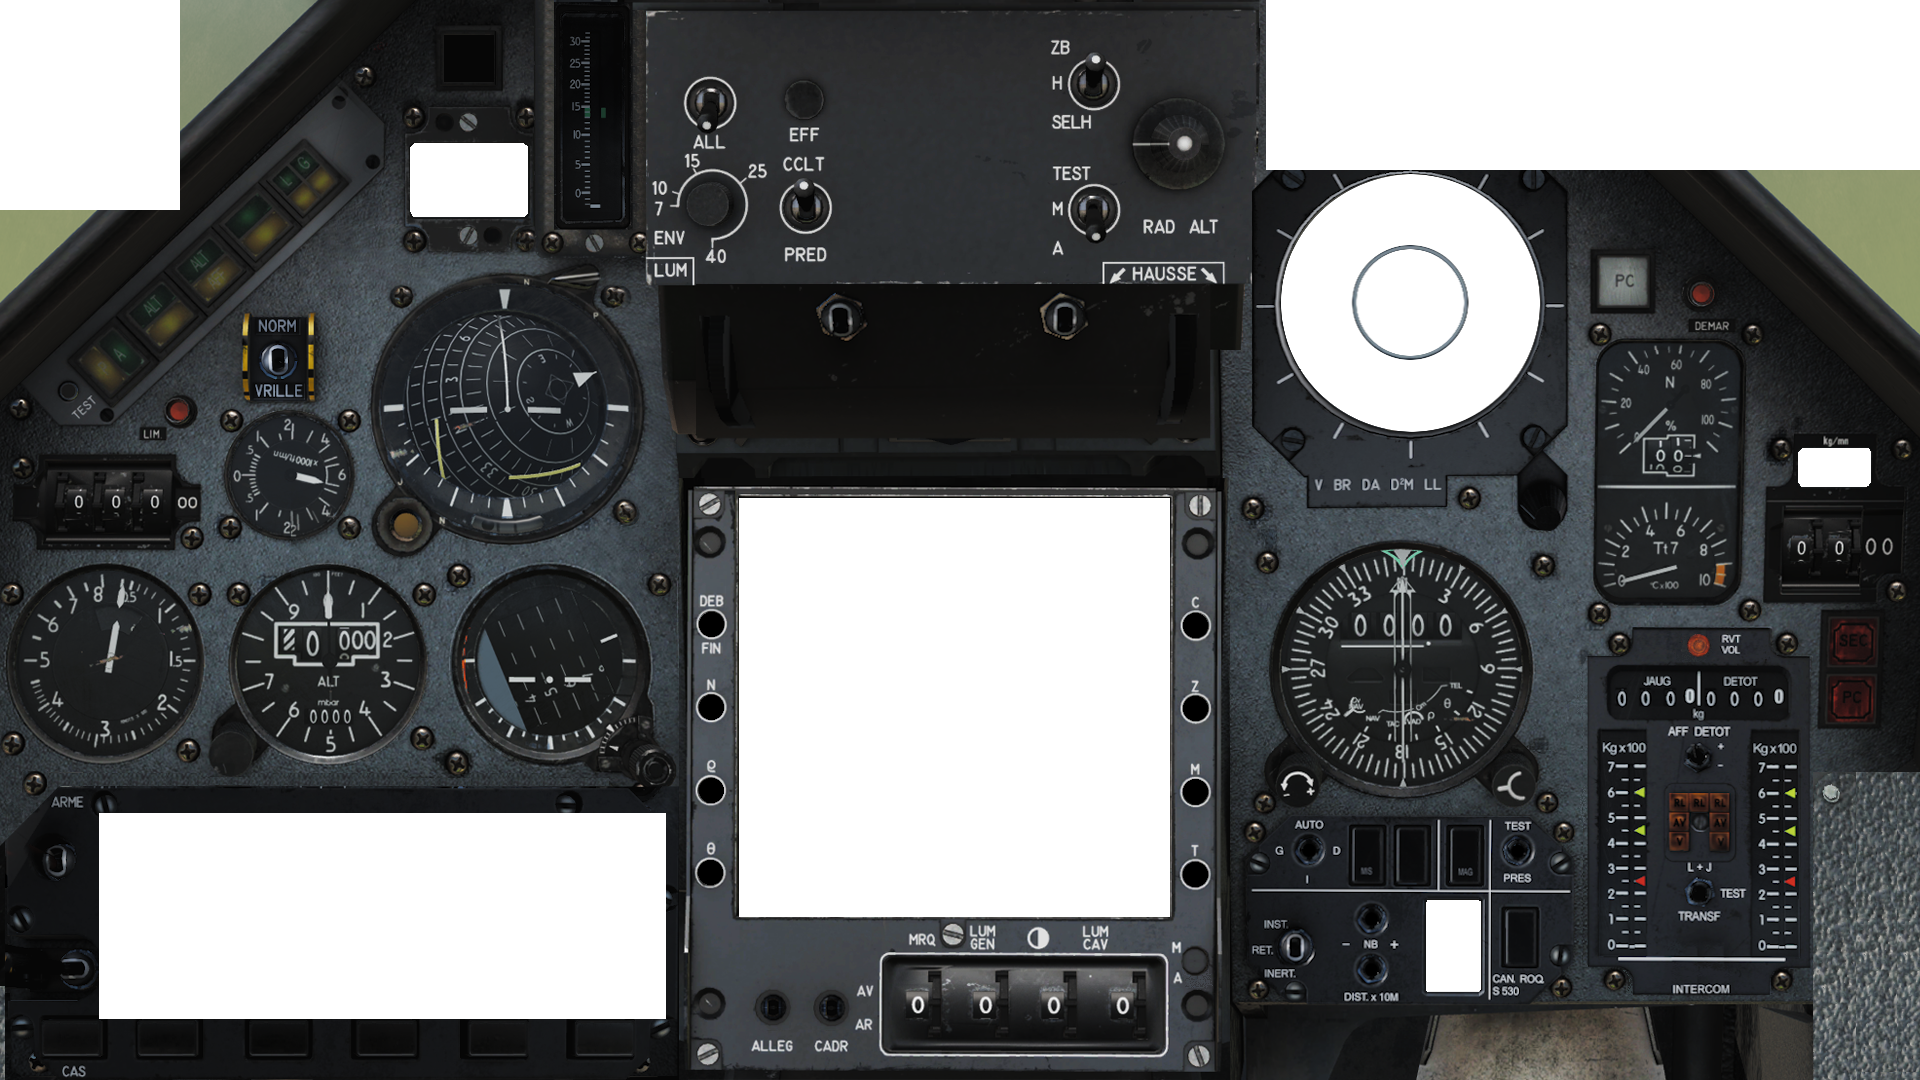
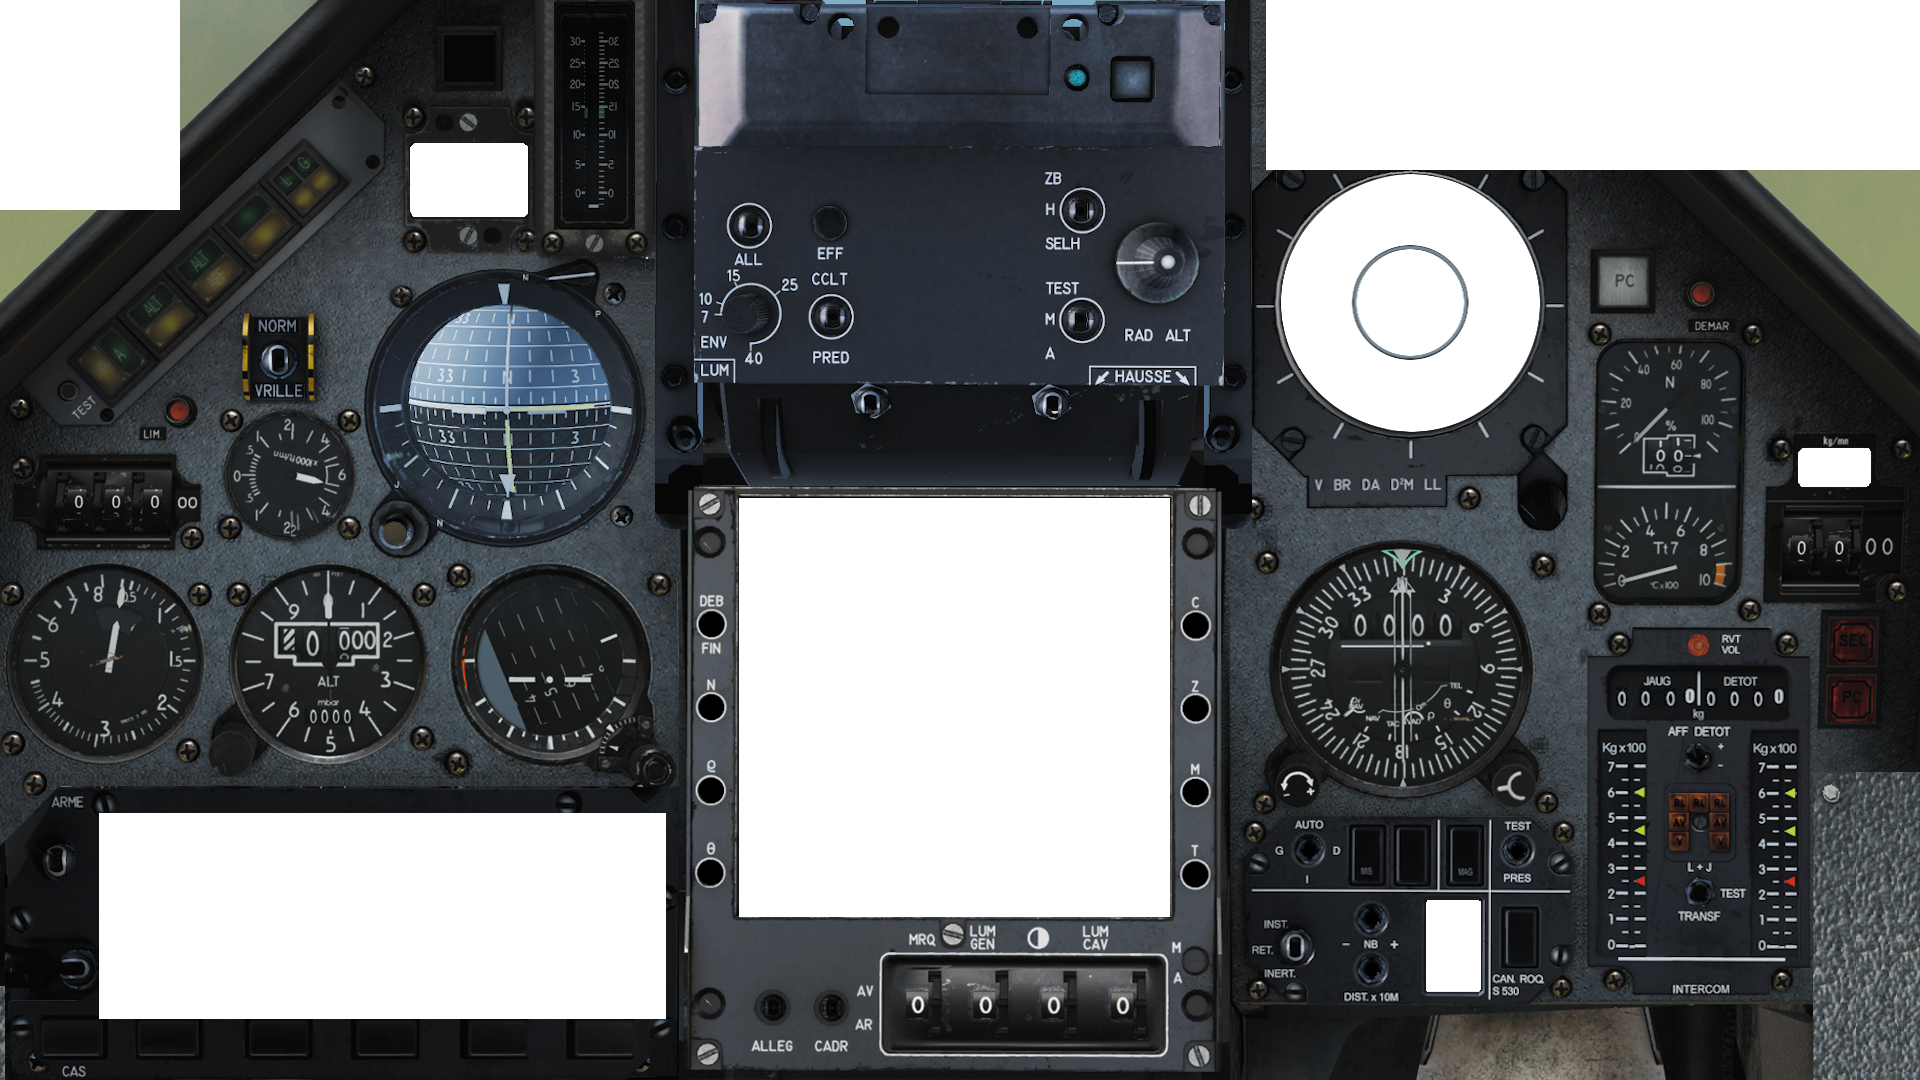
Added the VTH Control Panel

Changed region(s): [[0.1875, 0.0, 0.6562, 0.5194]]

diff --git a/Helios/Interfaces/DCS/M2000C/M2000CInterface.cs b/Helios/Interfaces/DCS/M2000C/M2000CInterface.cs
@@ -763,7 +763,38 @@ namespace GadrocsWorkshop.Helios.Interfaces.DCS.M2000C
             AddFunction(new Switch(this, VTH_VTB, "223", new SwitchPosition[] {
                 new SwitchPosition("1.0", "", "3223"),
                 new SwitchPosition("0.0", "", "3223"),
-                }, "VTB Panel", "Map Reframe", "%0.1f"));    
+                }, "VTB Panel", "Map Reframe", "%0.1f"));
+            #endregion
+            #region VTH Control Panel
+            AddFunction(new Switch(this, VTH_VTB, "201", new SwitchPosition[] {
+                new SwitchPosition("1.0", "OFF", "3201"),
+                new SwitchPosition("0.0", "ON", "3201"),
+                }, "VTH Control Panel", "Power Switch", "%0.1f"));    // elements["PTN_201"] = multiposition_switch_limited(_("HUD Power Switch"), devices.VTH_VTB, device_commands.Button_201, 201, 3, 0.5, false, 0)
+            AddFunction(new Switch(this, VTH_VTB, "203", new SwitchPosition[] {
+                new SwitchPosition("1.0", "ALL", "3203"),
+                new SwitchPosition("0.0", "DECLUTER", "3203"),
+                }, "VTH Control Panel", "Declutter Switch", "%0.1f"));    // elements["PTN_203"] = default_2_way_spring_switch(_("HUD Declutter Switch"), devices.VTH_VTB, device_commands.Button_203, 203, true)
+            AddFunction(new Switch(this, VTH_VTB, "204", new SwitchPosition[] {
+                new SwitchPosition("0.0", "ZB", "3204"),
+                new SwitchPosition("0.5", "H", "3204"),
+                new SwitchPosition("1.0", "SELH", "3204"),
+                }, "VTH Control Panel", "Altimeter Selector Switch", "%0.1f"));    // elements["PTN_204"] = multiposition_switch_limited(_("HUD Altimeter Selector Switch"), devices.VTH_VTB, device_commands.Button_204, 204, 3, 0.5, true, 0)
+            AddFunction(new Switch(this, VTH_VTB, "205", new SwitchPosition[] {
+                new SwitchPosition("1.0", "TEST", "3205"),
+                new SwitchPosition("0.5", "M", "3205"),
+                new SwitchPosition("0.0", "A", "3205"),
+                }, "VTH Control Panel", "Radar Altimeter Power Switch", "%0.1f"));    // elements["PTN_205"] = multiposition_switch_limited(_("Radar Altimeter Power Switch"), devices.VTH_VTB, device_commands.Button_205, 205, 3, 0.5, false, 0)
+            AddFunction(new Switch(this, VTH_VTB, "206", new SwitchPosition[] {
+                new SwitchPosition("1.0", "OFF", "3206"),
+                new SwitchPosition("0.0", "ON", "3206"),
+                }, "VTH Control Panel", "Auxiliary Gunsight", "%0.1f"));    // elements["PTN_206"] = default_2_position_tumb(_("Auxiliary Gunsight"), devices.VTH_VTB, device_commands.Button_206, 206)
+            AddFunction(new Switch(this, VTH_VTB, "208", new SwitchPosition[] {
+                new SwitchPosition("0.0", "CCLT", "3208"),
+                new SwitchPosition("1.0", "PRED", "3208"),
+                }, "VTH Control Panel", "A/G Gun Reticle Switch", "%0.1f"));    // elements["PTN_208"] = default_2_position_tumb(_("A/G Gun Reticle Switch"), devices.VTH_VTB, device_commands.Button_208, 208)
+            AddFunction(new Axis(this, VTH_VTB, "3209", "209", 0.05d, 0d, 1d, "VTH Control Panel", "Target Wingspan Knob"));    // elements["PTN_209"] = default_axis_limited(_("Target Wingspan Knob"), devices.VTH_VTB, device_commands.Button_209, 209, 0, -0.03, true, 0, 99)
+            AddFunction(new PushButton(this, VTH_VTB, "3210", "210", "VTH Control Panel", "HUD Clear Button"));    // elements["PTN_210"] = default_button(_("HUD Clear Button"), devices.VTH_VTB, device_commands.Button_210, 210, 0, 1)
+            AddFunction(new Axis(this, VTH_VTB, "3192", "192", 0.15d, 0d, 1d, "VTH Control Panel", "Minimum Altitude Selector"));    // elements["PTN_192"] = default_axis(_("Minimum Altitude Selector"), devices.VTH_VTB, device_commands.Button_192, 192, 0, 0.2, true, 0)
             #endregion
             #region VVI Gauge
             AddFunction(new ScaledNetworkValue(this, "324", 1d, "VVI Gauge", "VVI Needle", "VVI Needle.", "-5 - +5", BindingValueUnits.Degrees, 0d, "%.4f"));
@@ -836,16 +867,7 @@ namespace GadrocsWorkshop.Helios.Interfaces.DCS.M2000C
             AddFunction(new Switch(this, ENGPANEL, "476", new SwitchPosition[] { }, "Engine Start Panel", "Engine Emergency Control Switch", "%0.1f"));    // elements["PTN_476"] = multiposition_switch_limited(_("Engine Emergency Control Switch"), devices.ENGPANEL, device_commands.Button_476, 476,3, 0.5, true, 0)
             #endregion  
             #region  HUD/VTB"
-            AddFunction(new Switch(this, VTH_VTB, "201", new SwitchPosition[] { }, "HUD/VTB", "HUD Power Switch", "%0.1f"));    // elements["PTN_201"] = multiposition_switch_limited(_("HUD Power Switch"), devices.VTH_VTB, device_commands.Button_201, 201, 3, 0.5, false, 0)
-            //AddFunction(Switch.CreateToggleSwitch(this, VTH_VTB, "3203", "203", "HUD/VTB", "HUD Declutter Switch", "%0.1f"));    // elements["PTN_203"] = default_2_way_spring_switch(_("HUD Declutter Switch"), devices.VTH_VTB, device_commands.Button_203, 203, true)
-            AddFunction(new Switch(this, VTH_VTB, "204", new SwitchPosition[] { }, "HUD/VTB", "HUD Altimeter Selector Switch", "%0.1f"));    // elements["PTN_204"] = multiposition_switch_limited(_("HUD Altimeter Selector Switch"), devices.VTH_VTB, device_commands.Button_204, 204, 3, 0.5, true, 0)
-            AddFunction(new Switch(this, VTH_VTB, "205", new SwitchPosition[] { }, "HUD/VTB", "Radar Altimeter Power Switch", "%0.1f"));    // elements["PTN_205"] = multiposition_switch_limited(_("Radar Altimeter Power Switch"), devices.VTH_VTB, device_commands.Button_205, 205, 3, 0.5, false, 0)
-            AddFunction(new PushButton(this, VTH_VTB, "3206", "206", "HUD/VTB", "Auxiliary Gunsight"));    // elements["PTN_206"] = default_2_position_tumb(_("Auxiliary Gunsight"), devices.VTH_VTB, device_commands.Button_206, 206)
             AddFunction(new Axis(this, VTH_VTB, "3207", "207", 0.15d, 0d, 1d, "HUD/VTB", "Auxiliary Gunsight Deflection"));    // elements["PTN_207"] = default_axis_cycle(_("Auxiliary Gunsight Deflection"), devices.VTH_VTB, device_commands.Button_207, 207, 0, 0.01, true, 0)
-            AddFunction(new PushButton(this, VTH_VTB, "3208", "208", "HUD/VTB", "A/G Gun Reticle Switch"));    // elements["PTN_208"] = default_2_position_tumb(_("A/G Gun Reticle Switch"), devices.VTH_VTB, device_commands.Button_208, 208)
-            AddFunction(new Axis(this, VTH_VTB, "3209", "209", 0.15d, 0d, 1d, "HUD/VTB", "Target Wingspan Knob"));    // elements["PTN_209"] = default_axis_limited(_("Target Wingspan Knob"), devices.VTH_VTB, device_commands.Button_209, 209, 0, -0.03, true, 0, 99)
-            AddFunction(new PushButton(this, VTH_VTB, "3210", "210", "HUD/VTB", "HUD Clear Button"));    // elements["PTN_210"] = default_button(_("HUD Clear Button"), devices.VTH_VTB, device_commands.Button_210, 210, 0, 1)
-            AddFunction(new Axis(this, VTH_VTB, "3192", "192", 0.15d, 0d, 1d, "HUD/VTB", "Minimum Altitude Selector"));    // elements["PTN_192"] = default_axis(_("Minimum Altitude Selector"), devices.VTH_VTB, device_commands.Button_192, 192, 0, 0.2, true, 0)
             AddFunction(new PushButton(this, VTH_VTB, "3470", "470", "HUD/VTB", "Radar WOW Emitter Authorize Switch"));    // elements["PTN_470"] = default_2_position_tumb(_("Radar WOW Emitter Authorize Switch"), devices.VTH_VTB, device_commands.Button_470, 470)
             AddFunction(new Switch(this, VTH_VTB, "224", new SwitchPosition[] { }, "HUD/VTB", "Icons and Rulers Brightness", "%0.1f"));    // elements["PTN_224"] = multiposition_switch_limited(_("Icons and Rulers Brightness"), devices.VTH_VTB, device_commands.Button_224, 224, 8, 0.1, false, 0)
             AddFunction(new Switch(this, VTH_VTB, "225", new SwitchPosition[] { }, "HUD/VTB", "Video Brightness", "%0.1f"));    // elements["PTN_225"] = multiposition_switch_limited(_("Video Brightness"), devices.VTH_VTB, device_commands.Button_225, 225, 8, 0.1, false, 0)

diff --git a/Helios/Gauges/M2000C/VTHControlPanel/VTHControl_Panel.cs b/Helios/Gauges/M2000C/VTHControlPanel/VTHControl_Panel.cs
@@ -1,0 +1,109 @@
+//  Copyright 2014 Craig Courtney
+//    
+//  Helios is free software: you can redistribute it and/or modify
+//  it under the terms of the GNU General Public License as published by
+//  the Free Software Foundation, either version 3 of the License, or
+//  (at your option) any later version.
+//
+//  Helios is distributed in the hope that it will be useful,
+//  but WITHOUT ANY WARRANTY; without even the implied warranty of
+//  MERCHANTABILITY or FITNESS FOR A PARTICULAR PURPOSE.  See the
+//  GNU General Public License for more details.
+//
+//  You should have received a copy of the GNU General Public License
+//  along with this program.  If not, see <http://www.gnu.org/licenses/>.
+
+namespace GadrocsWorkshop.Helios.Gauges.M2000C
+{
+    using GadrocsWorkshop.Helios.ComponentModel;
+    using GadrocsWorkshop.Helios.Controls;
+    using System.Collections;
+    using System.Globalization;
+    using System.Windows;
+    using System.Windows.Media;
+
+    [HeliosControl("HELIOS.M2000C.VTHControl_PANEL", "VTH Control Panel", "M2000C Gauges", typeof(M2000CDeviceRenderer))]
+    class M2000C_VTHControlPanel : M2000CDevice
+    {
+        private static readonly Rect SCREEN_RECT = new Rect(0, 0, 530, 340);
+        private string _interfaceDeviceName = "VTH Control Panel";
+        private Rect _scaledScreenRect = SCREEN_RECT;
+        string _pathToImages = "{M2000C}/Images/VTHControlPanel/";
+        
+        public M2000C_VTHControlPanel()
+            : base("VTH Control Panel", new Size(530, 340))
+        {
+            Size switchSize = new Size(30, 90);
+            string longSwitchUp = "{M2000C}/Images/Switches/long-black-up.png";
+            string longSwitchMid = "{M2000C}/Images/Switches/long-black-mid.png";
+            string longSwitchDown = "{M2000C}/Images/Switches/long-black-down.png";
+
+            AddThreeWayToggle("Altimeter Selector Switch", new Point(370, 25), switchSize, ThreeWayToggleSwitchPosition.Two, ThreeWayToggleSwitchType.OnOnOn, _interfaceDeviceName,
+                "Altimeter Selector Switch", true, longSwitchUp, longSwitchMid, longSwitchDown, ClickType.Touch, false);
+            AddThreeWayToggle("Radar Altimeter Power Switch", new Point(370, 130), switchSize, ThreeWayToggleSwitchPosition.Two, ThreeWayToggleSwitchType.OnOnOn, _interfaceDeviceName,
+                "Radar Altimeter Power Switch", true, longSwitchUp, longSwitchMid, longSwitchDown, ClickType.Touch, false);
+
+            AddToggleSwitch("Declutter Switch", new Point(56, 78), switchSize, ToggleSwitchPosition.Two, longSwitchUp, longSwitchDown,
+                ToggleSwitchType.MomOn, _interfaceDeviceName, "Declutter Switch", true);
+            AddToggleSwitch("A/G Gun Reticle Switch", new Point(139, 171), switchSize, ToggleSwitchPosition.Two, longSwitchUp, longSwitchDown,
+                ToggleSwitchType.OnOn, _interfaceDeviceName, "A/G Gun Reticle Switch", true);
+            AddToggleSwitch("Power Switch", new Point(176, 258), switchSize, ToggleSwitchPosition.Two, longSwitchMid, longSwitchDown,
+                ToggleSwitchType.OnOn, _interfaceDeviceName, "Power Switch", true);
+            AddToggleSwitch("Auxiliary Gunsight", new Point(359, 258), switchSize, ToggleSwitchPosition.Two, longSwitchMid, longSwitchDown,
+                ToggleSwitchType.OnOn, _interfaceDeviceName, "Auxiliary Gunsight", true);
+
+            AddPot("Minimum Altitude Selector", new Point(461, 116), new Size(84, 84), _pathToImages + "minimum-altitude-selector.png", 0d, 360d, 0d, 1d, 0d, 0.1d, _interfaceDeviceName,
+                "Minimum Altitude Selector", true, ClickType.Touch, true);
+            AddPot("Target Wingspan Knob", new Point(57, 168), new Size(40, 40), _pathToImages + "target-wingspan-knob.png", 0d, 270d, 1d, 0d, 0.75d, 0.05d, _interfaceDeviceName,
+                "Target Wingspan Knob", true, ClickType.Touch, false);
+
+            AddButton("HUD Clear Button", new Point(136, 78), new Size(33, 33), _pathToImages + "eff-button.png", _pathToImages + "eff-button.png", "", _interfaceDeviceName, 
+                "HUD Clear Button", true);
+        }
+
+        #region Properties
+
+        public override string BezelImage
+        {
+            get { return _pathToImages + "vth-control-panel.png"; }
+        }
+
+        #endregion
+
+        protected override void OnPropertyChanged(PropertyNotificationEventArgs args)
+        {
+            if (args.PropertyName.Equals("Width") || args.PropertyName.Equals("Height"))
+            {
+                double scaleX = Width / NativeSize.Width;
+                double scaleY = Height / NativeSize.Height;
+                _scaledScreenRect.Scale(scaleX, scaleY);
+            }
+            base.OnPropertyChanged(args);
+        }
+
+        public override bool HitTest(Point location)
+        {
+            if (_scaledScreenRect.Contains(location))
+            {
+                return false;
+            }
+
+            return true;
+        }
+
+        public override void MouseDown(Point location)
+        {
+            // No-Op
+        }
+
+        public override void MouseDrag(Point location)
+        {
+            // No-Op
+        }
+
+        public override void MouseUp(Point location)
+        {
+            // No-Op
+        }
+    }
+}
